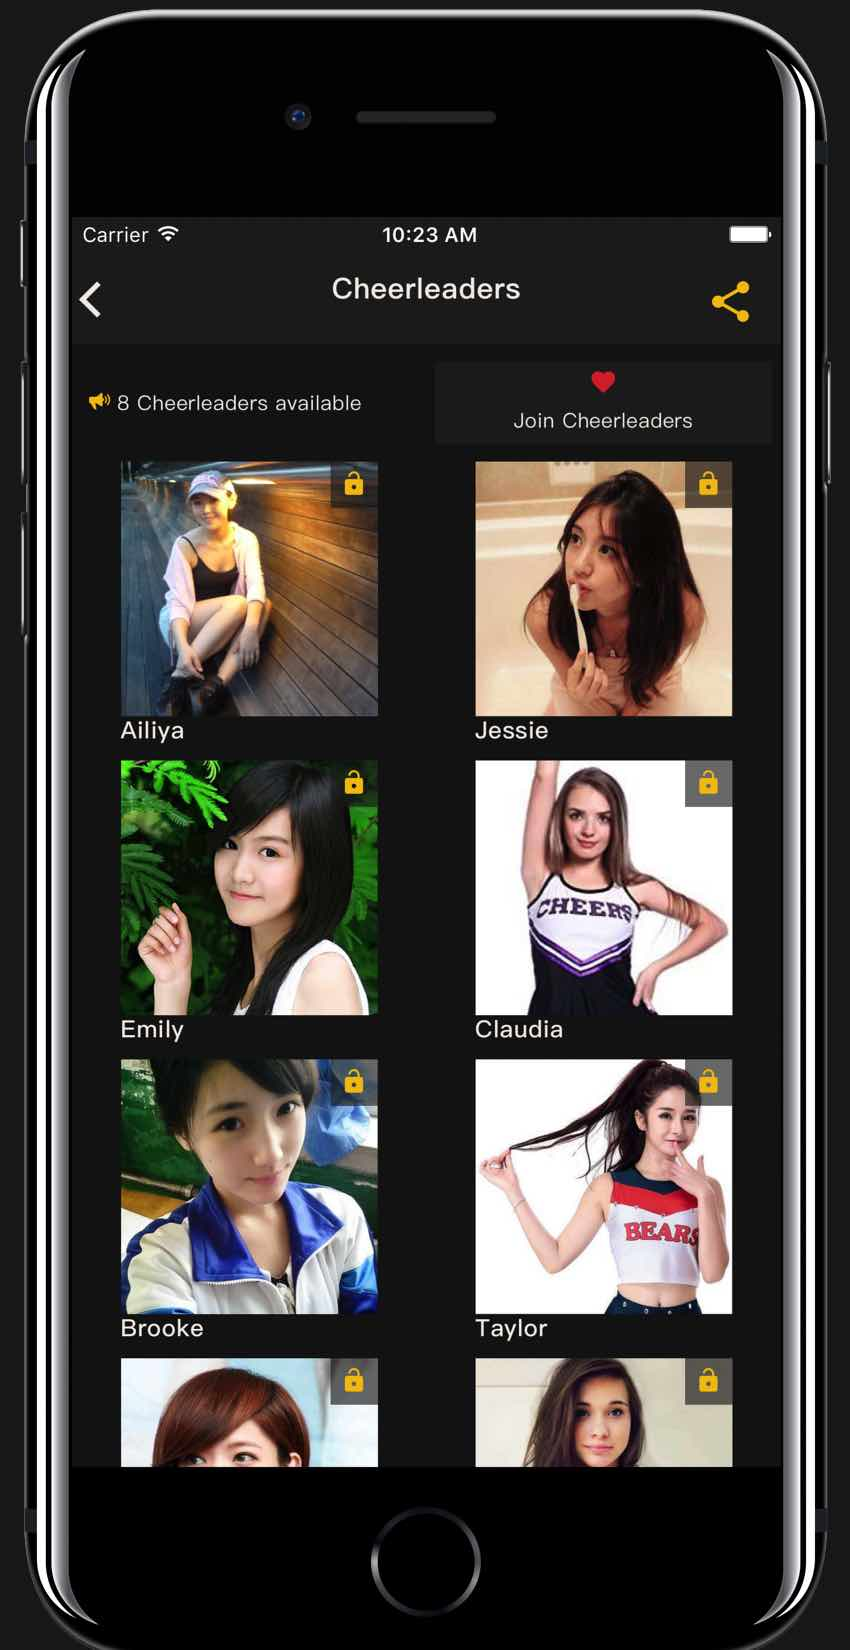
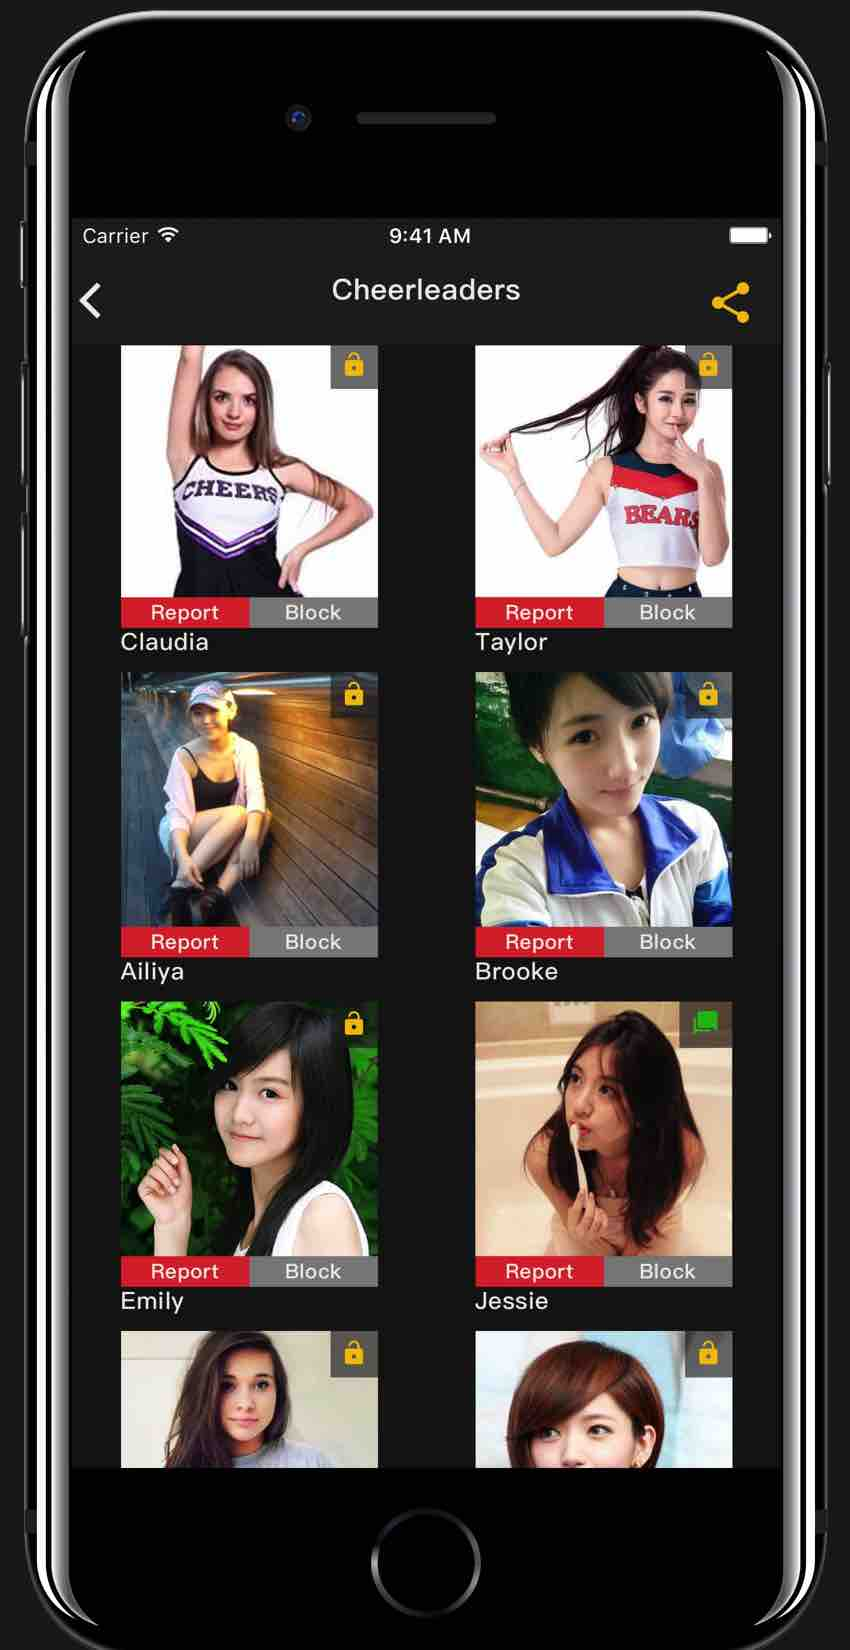
Added block button

diff --git a/src/pages/cheering-team/cheering-team.ts b/src/pages/cheering-team/cheering-team.ts
@@ -1,10 +1,12 @@
 import { Component } from '@angular/core';
-import { NavController, ModalController } from 'ionic-angular'
+import { NavController, ModalController, AlertController } from 'ionic-angular'
 import { CheeringTeamStatsPage } from './cheering-team-stats'
 import { Player } from '../../app/players/player.model'
 import { PlayerService } from '../../app/players/player.service'
 import { CheerleaderService } from '../../app/cheerleaders/cheerleader.service'
+import { MessageService } from '../../app/messages/message.service'
 import { ChatPage } from '../chat/chat'
+import { Localization } from '../../providers/localization'
 
 @Component({
   selector: 'page-cheering-team',
@@ -22,31 +24,40 @@ export class CheeringTeamPage {
   onPendingCheerleadersReady;
   onApprovedCheerleadersReady;
   onPlayerReady;
+  onBlacklistReady;
 
   approvedGrid: number[][];
   oldTotal: number;
+  blacklist: string[];
 
   constructor(private nav: NavController,
     private modalCtrl: ModalController,
     private playerService: PlayerService,
-    private cheerleaderService: CheerleaderService) {
+    private cheerleaderService: CheerleaderService,
+    private messageService: MessageService,
+    private alertCtrl : AlertController,
+    private loc : Localization) {
     if (this.playerService.isAuthenticated())
       this.afPendingSelf = this.cheerleaderService.afPendingCheerleaderSelf();
   }
 
   ionViewDidLoad() {
     //this.selfPlayer = this.playerService.getSelfPlayer();
+    this.blacklist = [];
     this.addEventListeners();
     if (this.playerService.isAdmin())
       this.cheerleaderService.getPendingCheerleadersAsync();
     this.cheerleaderService.getApprovedCheerleadersAsync();
     this.playerService.getPlayerAsync(this.playerService.selfId());
+    this.messageService.prepareBlacklist();
+    
   }
 
   ionViewWillUnload() {
     document.removeEventListener('servicependingcheerleadersready', this.onPendingCheerleadersReady);
     document.removeEventListener('serviceapprovedcheerleadersready', this.onApprovedCheerleadersReady);
     document.removeEventListener('serviceplayerready', this.onPlayerReady);
+    document.removeEventListener('serviceblacklistready', this.onBlacklistReady);
   }
 
   shuffle(a) {
@@ -78,9 +89,14 @@ export class CheeringTeamPage {
       }
     };
 
+    this.onBlacklistReady = e => {
+      this.blacklist = this.messageService.getBlackList();
+    }
+
     document.addEventListener('servicependingcheerleadersready', this.onPendingCheerleadersReady);
     document.addEventListener('serviceapprovedcheerleadersready', this.onApprovedCheerleadersReady);
     document.addEventListener('serviceplayerready', this.onPlayerReady);
+    document.addEventListener('serviceblacklistready', this.onBlacklistReady);
   }
 
   highLight(index: number) {
@@ -155,5 +171,37 @@ export class CheeringTeamPage {
     if (row.length > 0) {
       this.approvedGrid.push(row);
     }
+  }
+
+  onReport(id) {
+    let confirm = this.alertCtrl.create({
+      subTitle: this.loc.getString('reportobjectionalbecontent'),
+      message: this.loc.getString('systemadminsdealwithreport'),
+      buttons: [
+        {
+          text: this.loc.getString('Cancel'),
+          handler: () => {
+          }
+        },
+        {
+          text: this.loc.getString('OK'),
+          handler: () => {
+            this.cheerleaderService.report(id);
+          }
+        }
+      ]
+    });
+    confirm.present();
+  }
+
+  isBlocking(id) {
+    return this.blacklist.indexOf(id) > -1;
+  }
+
+  block(id) {
+    this.cheerleaderService.blockUser(id);
+  }
+  unblock(id) {
+    this.cheerleaderService.unblockUser(id);
   }
 }

diff --git a/src/pages/cheering-team/cheering-team.html b/src/pages/cheering-team/cheering-team.html
@@ -99,19 +99,33 @@
           <div *ngIf='approvedCheerleaders[i]'>
             <ion-row class="item-row">
               <div class="baby-img-frame">
-                <button *ngIf="isUnlocked(approvedCheerleaders[i].id)" ion-button icon-only clear small class="chat-logo" color="primary"
+                <button *ngIf="isUnlocked(approvedCheerleaders[i].id) && !isBlocking(approvedCheerleaders[i].id)" ion-button icon-only clear small class="chat-logo" color="primary"
                   (tap)="enterChatPage(approvedCheerleaders[i])">
                   <ion-icon name="md-chatbubbles"></ion-icon>
                 </button>
-                <button *ngIf="!isUnlocked(approvedCheerleaders[i].id)" ion-button icon-only clear small class="chat-logo" color="gYellow"
+                <button *ngIf="!isUnlocked(approvedCheerleaders[i].id) && !isBlocking(approvedCheerleaders[i].id)" ion-button icon-only clear small class="chat-logo" color="gYellow"
                   (tap)="unlockCheerleader(approvedCheerleaders[i])">
                   <ion-icon name="md-unlock"></ion-icon>
                 </button>
-                <img [src]="approvedCheerleaders[i].photoMedium">
+                <img *ngIf="!isBlocking(approvedCheerleaders[i].id)" [src]="approvedCheerleaders[i].photoMedium">
+                <img *ngIf="isBlocking(approvedCheerleaders[i].id)" src="assets/img/blocked.png">
               </div>
             </ion-row>
             <ion-row class="item-row">
               <div class="baby-status">
+                <ion-row>
+                  <ion-col width-50 no-padding class="report-btn" (tap)="onReport(approvedCheerleaders[i].id)">
+                      {{ 'report' | trans }}
+                  </ion-col>
+                  <ion-col width-50 *ngIf="!isBlocking(approvedCheerleaders[i].id)" no-padding class="block-btn" 
+                           (tap)="block(approvedCheerleaders[i].id)">
+                      {{ 'block' | trans }}
+                  </ion-col>
+                  <ion-col width-50 *ngIf="isBlocking(approvedCheerleaders[i].id)" no-padding class="unblock-btn"
+                           (tap)="unblock(approvedCheerleaders[i].id)">
+                      {{ 'unblock' | trans }}
+                  </ion-col>
+                </ion-row>
                 <ion-row>
                   <h3>{{approvedCheerleaders[i].name}}</h3>
                 </ion-row>

diff --git a/src/pages/chat/chat.ts b/src/pages/chat/chat.ts
@@ -1,6 +1,6 @@
 import { Component, Directive, ViewChild } from '@angular/core';
 import { Keyboard } from 'ionic-native';
-import { NavController, NavParams, Content } from 'ionic-angular';
+import { NavController, NavParams, Content, AlertController } from 'ionic-angular';
 
 import { MomentPipe } from '../../pipes/moment.pipe'
 import * as moment from 'moment';
@@ -43,7 +43,9 @@ export class ChatPage {
 
 
   
-  constructor(private navCtrl: NavController, private navParams: NavParams, private chatService: ChatService, private local: Localization) {
+  constructor(private navCtrl: NavController, private navParams: NavParams, 
+              private chatService: ChatService, private local: Localization,
+              private alertCtrl : AlertController,) {
   }
 
   ionViewDidLoad() {
@@ -174,5 +176,26 @@ export class ChatPage {
     this.chatService.unblockUser(this.user.id)
     this.isBlocking = false;
     this.scrollView();
+  }
+
+  onReport() {
+    let confirm = this.alertCtrl.create({
+      subTitle: this.local.getString('reportobjectionalbecontent'),
+      message: this.local.getString('systemadminsdealwithreport'),
+      buttons: [
+        {
+          text: this.local.getString('Cancel'),
+          handler: () => {
+          }
+        },
+        {
+          text: this.local.getString('OK'),
+          handler: () => {
+            this.chatService.report(this.user.id);
+          }
+        }
+      ]
+    });
+    confirm.present();
   }
 }

diff --git a/src/app/cheerleaders/cheerleader.service.ts b/src/app/cheerleaders/cheerleader.service.ts
@@ -4,6 +4,7 @@ import { OneSignalManager } from '../../providers/onesignal-manager';
 import { Cheerleader } from './cheerleader.model';
 import { PlayerService } from '../players/player.service'
 import { UIHelper } from '../../providers/uihelper'
+import { Localization } from '../../providers/localization'
 
 @Injectable()
 export class CheerleaderService {
@@ -12,7 +13,7 @@ export class CheerleaderService {
   approvedCheerleaders;
 
   constructor(private fm: FirebaseManager, private osm: OneSignalManager,
-    private playerService: PlayerService, private uiHelper: UIHelper) {
+    private playerService: PlayerService, private uiHelper: UIHelper, private loc : Localization) {
     document.addEventListener('pendingcheerleadersready', e => {
       this.pendingCheerleaders = [];
       this.fm.cachedPendingCheerleaders.forEach(fmCheerleader => {
@@ -135,5 +136,17 @@ export class CheerleaderService {
 
   isCheerleader(id) {
     return this.cheerleadersMap[id] && this.cheerleadersMap[id].photoMedium;
+  }
+
+  blockUser(userId: string) {
+    this.fm.block(userId);
+  }
+
+  unblockUser(userId: string) {
+    this.fm.unblock(userId);
+  }
+
+  report(reportId) {
+    this.osm.sendFeedBack(reportId + ' : ' + this.loc.getString('reportobjectionalbecontent'));
   }
 }

diff --git a/src/pages/chat/chat.html b/src/pages/chat/chat.html
@@ -4,7 +4,10 @@
       {{ user?.name }}
     </ion-title>
     <ion-buttons right>
-      <button *ngIf="!isBlocking" clear ion-button color="danger" (click)="block()">
+      <button clear ion-button color="danger" (click)="onReport()">
+        {{'report' | trans}}
+      </button>
+      <button *ngIf="!isBlocking" clear ion-button color="lightGrey" (click)="block()">
         {{'block' | trans}}
       </button>
       <button *ngIf="isBlocking" clear ion-button color="primary" (click)="unblock()">
@@ -25,10 +28,10 @@
     <!--No message...-->
     <!--</div>-->
     <!--</div>-->
-    <no-record *ngIf="isBlocking && !isBlocked" [message]="blockingMessage"></no-record>
-    <no-record *ngIf="isBlocked" [message]="blockedMessage"></no-record>
+    <no-record *ngIf="!isSystem && isBlocking && !isBlocked" [message]="blockingMessage"></no-record>
+    <no-record *ngIf="!isSystem && isBlocked" [message]="blockedMessage"></no-record>
 
-    <no-record *ngIf="!hasChatsMessage && !isBlocking" [message]="hasNoChatsMessage"></no-record>
+    <no-record *ngIf="!hasChatsMessage && !isBlocking && !isBlocked" [message]="hasNoChatsMessage"></no-record>
     <div *ngIf="!isBlocking && !isBlocked">
       <div *ngFor="let chat of chats; let i = index;">
         <!-- time -->

diff --git a/src/app/chats/chat.service.ts b/src/app/chats/chat.service.ts
@@ -3,6 +3,7 @@ import { Subject } from 'rxjs/Subject';
 
 import { FirebaseManager } from '../../providers/firebase-manager'
 import { OneSignalManager } from '../../providers/onesignal-manager'
+import { Localization } from '../../providers/localization';
 
 import { Chat } from './chat.model';
 import { CHATS } from './mock-data/mock-chat';
@@ -12,7 +13,7 @@ export class ChatService {
   sizeSubject: Subject<any>;
   currentSize: number;
 
-  constructor(private fm: FirebaseManager, private osm: OneSignalManager) {
+  constructor(private fm: FirebaseManager, private osm: OneSignalManager, private local: Localization) {
     this.sizeSubject = new Subject();
     this.currentSize = 0;
   }
@@ -48,5 +49,9 @@ export class ChatService {
 
   isBlockedBy(userId: string) {
     return this.fm.isBlockedBy(userId)
+  }
+
+  report(reportId) {
+    this.osm.sendFeedBack(reportId + ' : ' + this.local.getString('reportobjectionalbecontent'));
   }
 }

diff --git a/src/providers/localization.ts b/src/providers/localization.ts
@@ -321,7 +321,8 @@ export class Localization {
             unblock: "Unblock",
             blockingMsg: "You've blocked this user.",
             blockedMsg: "You've been blocked by this user.",
-            matchfinished: '%s vs %s (%d : %d), please rate your teammate to earn player points'
+            matchfinished: '%s vs %s (%d : %d), please rate your teammate to earn player points',
+            report: "Report"
         },
 
         zh: {
@@ -624,7 +625,8 @@ export class Localization {
             unblock: "解除屏蔽",
             blockingMsg: "你已屏蔽这个用户。",
             blockedMsg: "你已被对方屏蔽。",
-            matchfinished: '%s vs %s (%d : %d), 快去给队友打分以获得个人积分吧'
+            matchfinished: '%s vs %s (%d : %d), 快去给队友打分以获得个人积分吧',
+            report: "举报"
         }
     }
 }

diff --git a/src/pages/cheering-team/cheering-team.scss b/src/pages/cheering-team/cheering-team.scss
@@ -178,6 +178,21 @@ page-cheering-team{
             max-width:1rem;
           }
         }
+        .block-btn {
+          font-weight: bold;
+          text-align: center;
+          background: #888;
+        }
+        .unblock-btn {
+          font-weight: bold;
+          text-align: center;
+          background: #20bd16;
+        }
+        .report-btn {
+          font-weight: bold;
+          text-align: center;
+          background: #db3236;
+        }
         .prize{
           padding-right:0;
           text-align: right;
